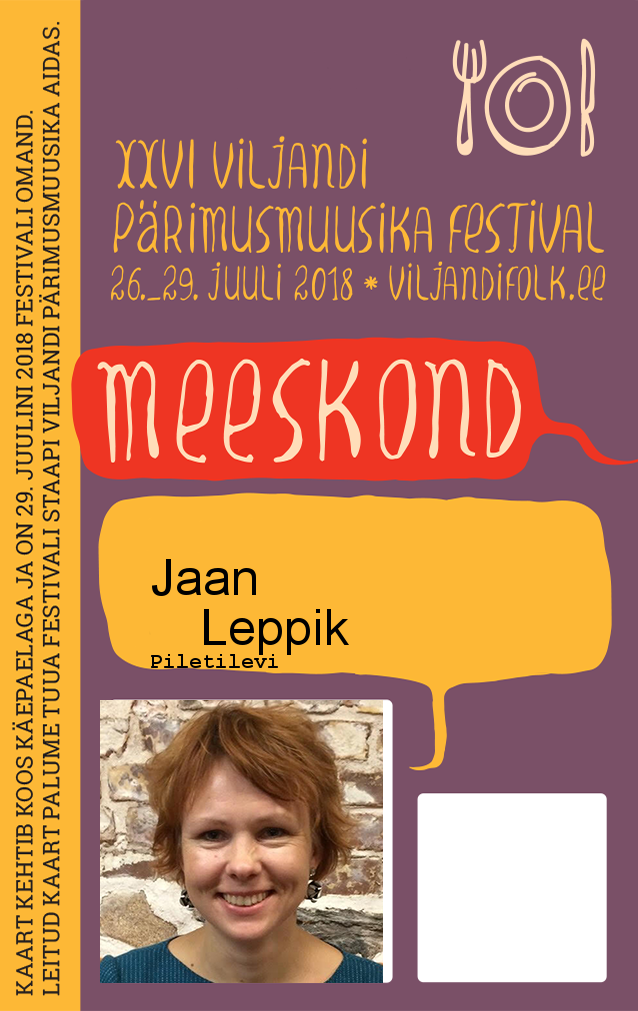
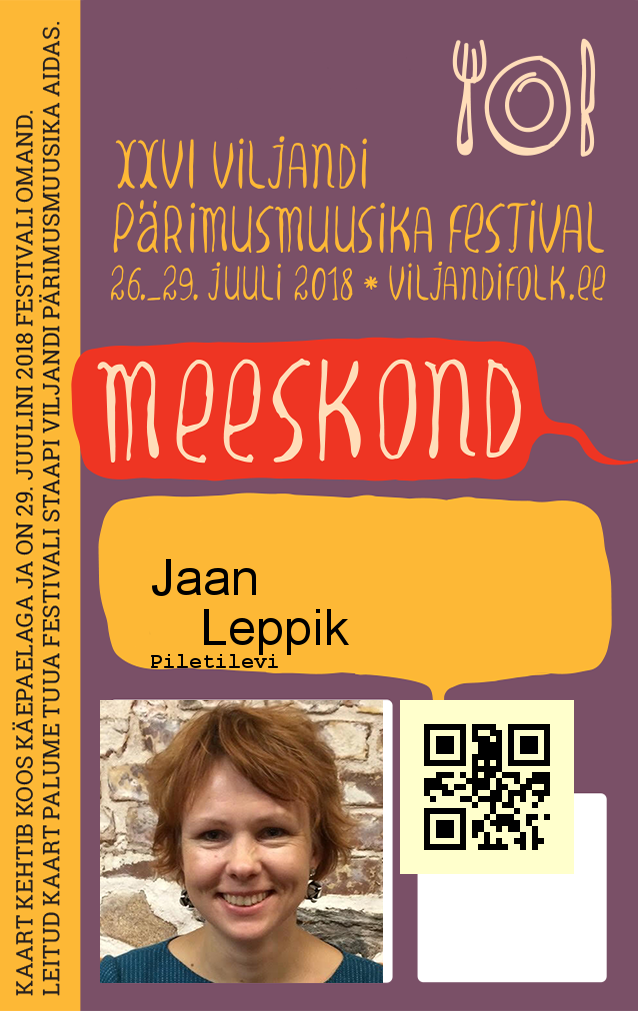
qrcode

Changed region(s): [[0.6254, 0.6746, 0.9232, 0.8892]]

diff --git a/cardprint.py b/cardprint.py
@@ -4,16 +4,19 @@ import csv
 from PIL import Image
 from PIL import ImageFont
 from PIL import ImageDraw
+import pyqrcode
 
 
 def printCard(card):
     bg_fn = os.path.join(datadir, card['taustafail'])
     face_fn = os.path.join(datadir, card['pildifail'])
     out_fn = os.path.join(datadir, card['kood']+'.png')
+    tmp_code_fn = os.path.join(datadir, 'code.png')
     print(bg_fn, face_fn, out_fn)
     bg_img = Image.open(bg_fn)
     face_img = Image.open(face_fn)
     face_offset = (100, 700)
+    qr_offset = (400, 700)
     bg_img.paste(face_img, face_offset)
     draw = ImageDraw.Draw(bg_img)
     font = ImageFont.truetype("arial.ttf", 50)
@@ -21,6 +24,21 @@ def printCard(card):
     draw.text((150, 550), card['eesnimi'], (0, 0, 0), font=font)
     draw.text((200, 600), card['perenimi'], (0, 0, 0), font=font)
     draw.text((150, 650), card['lisainfo'], (0, 0, 0), font=font2)
+
+    qrcode = pyqrcode.create(
+        card['kood'],
+        error='H',
+        version=1,
+        mode='numeric'
+        )
+    qrcode.png(
+        tmp_code_fn,
+        scale=6,
+        module_color=[0, 0, 0, 128],
+        background=[0xff, 0xff, 0xcc]
+        )
+    qr_img = Image.open(tmp_code_fn)
+    bg_img.paste(qr_img, qr_offset)
     bg_img.save(out_fn)
 
 
